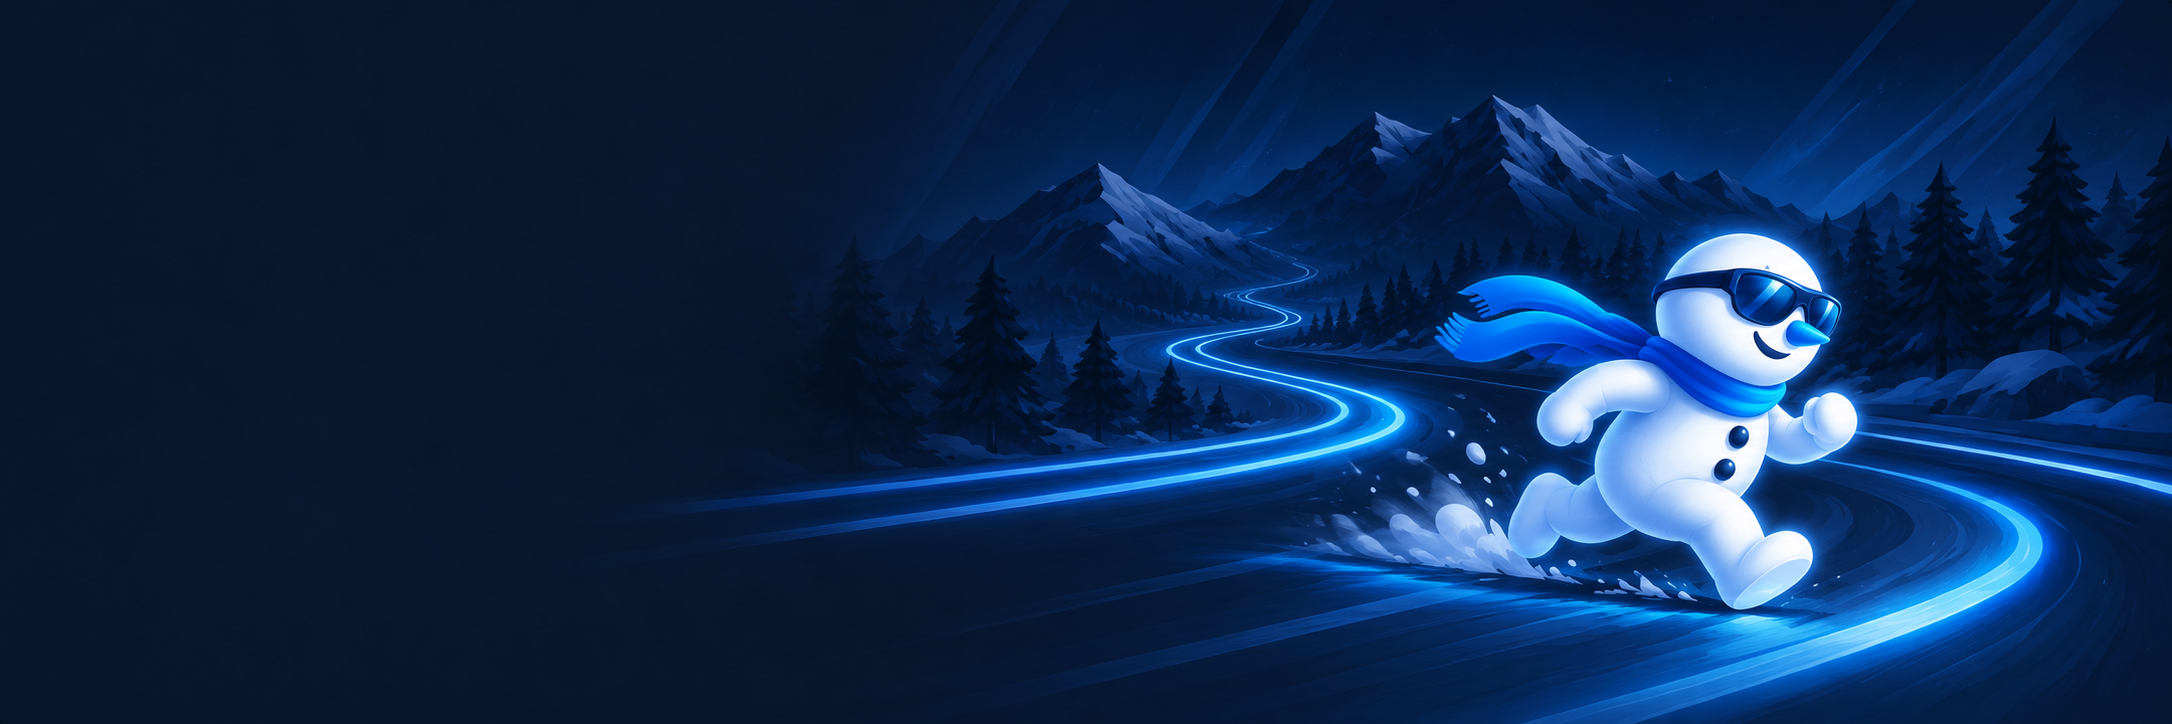
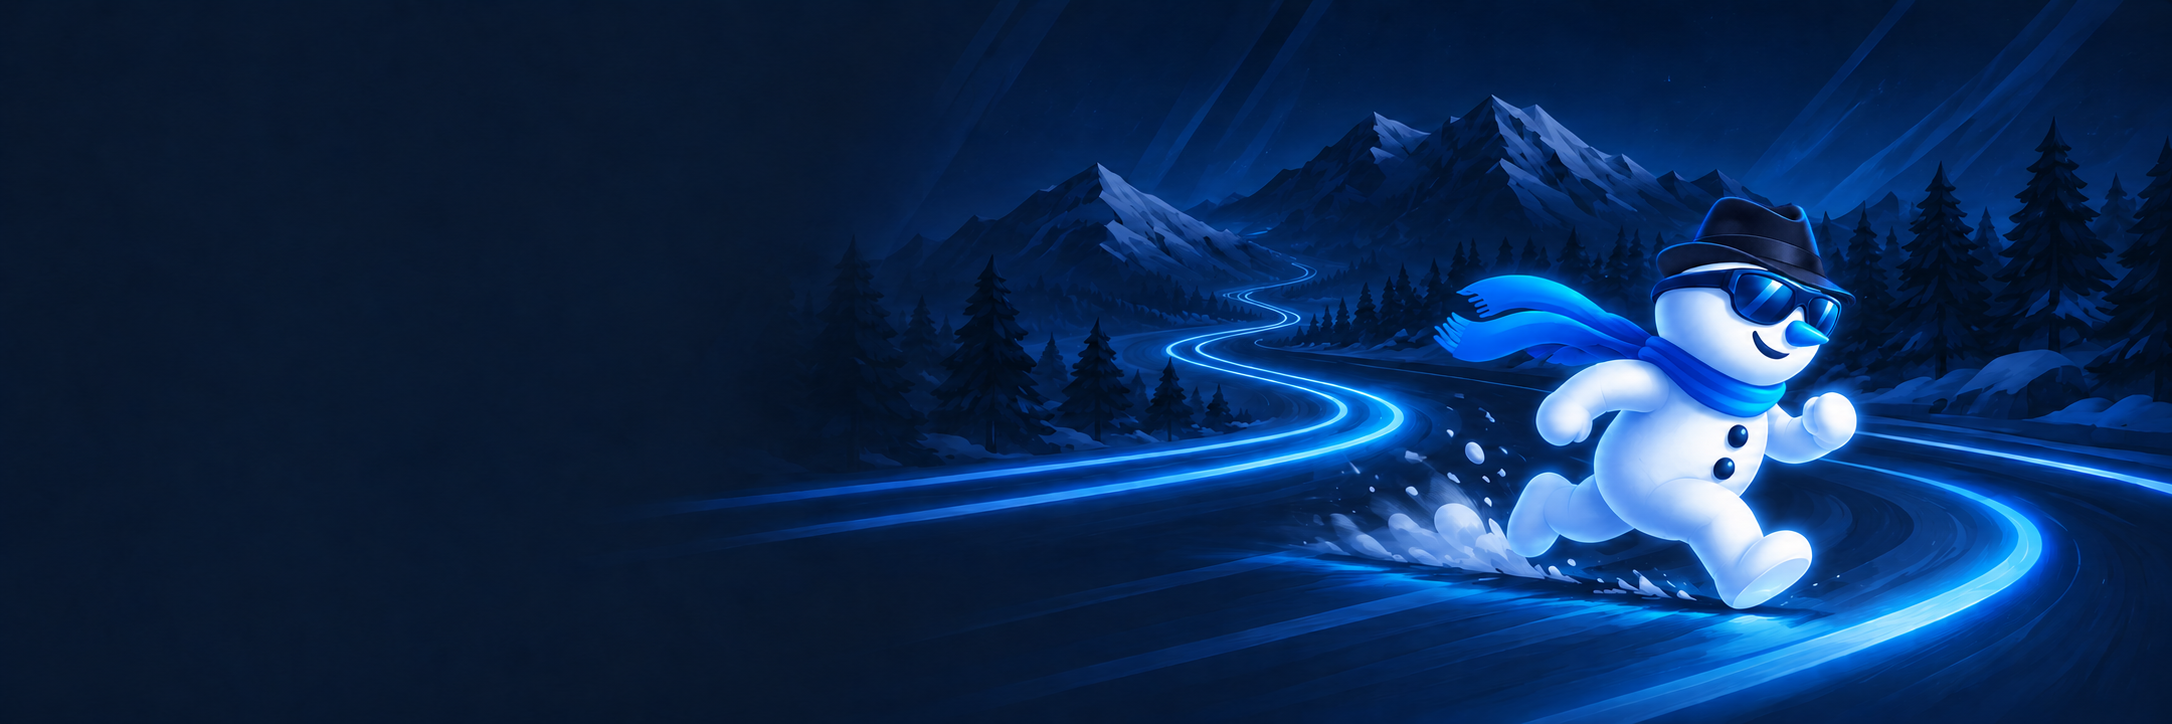
Fix window rendering compatibility and add matching hero hat

diff --git a/src/Bebekon.App/MainWindow.xaml b/src/Bebekon.App/MainWindow.xaml
@@ -1,6 +1,6 @@
 <Window x:Class="Bebekon.App.MainWindow" xmlns="http://schemas.microsoft.com/winfx/2006/xaml/presentation" xmlns:x="http://schemas.microsoft.com/winfx/2006/xaml" xmlns:local="clr-namespace:Bebekon.App" xmlns:shell="clr-namespace:System.Windows.Shell;assembly=PresentationFramework" Title="Bebekon VPN" Width="1160" Height="840" MinWidth="860" MinHeight="660" WindowStyle="None" ResizeMode="CanResize" Background="{DynamicResource Background}" Foreground="{DynamicResource Text}" FontFamily="Segoe UI" WindowStartupLocation="CenterScreen" UseLayoutRounding="True" SnapsToDevicePixels="True">
  <shell:WindowChrome.WindowChrome><shell:WindowChrome CaptionHeight="36" ResizeBorderThickness="6" CornerRadius="0" GlassFrameThickness="0"/></shell:WindowChrome.WindowChrome>
- <Grid>
+ <Grid x:Name="WindowSurface" Background="{DynamicResource Background}">
  <Grid x:Name="AppSurface"><Grid.Style><Style TargetType="Grid"><Style.Triggers><DataTrigger Binding="{Binding UpdateOverlayOpen}" Value="True"><Setter Property="IsEnabled" Value="False"/><Setter Property="Effect"><Setter.Value><BlurEffect Radius="5" RenderingBias="Performance"/></Setter.Value></Setter></DataTrigger></Style.Triggers></Style></Grid.Style>
   <Grid.ColumnDefinitions><ColumnDefinition Width="Auto"/><ColumnDefinition Width="*"/></Grid.ColumnDefinitions>
   <Border x:Name="SidebarHost" Width="200" ClipToBounds="True" Background="{DynamicResource Sidebar}" BorderBrush="{DynamicResource Border}" BorderThickness="0,0,1,0">

diff --git a/src/Bebekon.App/SmokeHarness.cs b/src/Bebekon.App/SmokeHarness.cs
@@ -51,6 +51,7 @@ internal static class SmokeHarness
         await Task.Delay(400); var report = new List<string> { "Startup selects TUN after a saved proxy session." };
         CheckTrayMenu(window, vm, report);
         await CheckCaptionButtonsAsync(window, vm, report);
+        await CheckWindowRestorationAsync(window, vm, report);
         await ConnectionChecks.RunAsync(Path.Combine(Root, "connection-regression"));
         await CheckStaleLatencyAsync(report);
         report.Add("Connection regressions: stable refreshed selection; coalesced rule edits; stable beyond 5 seconds; stale recovery ignored; manual off/cancel wins; edits during startup applied; traffic directions and units; XHTTP reaches helper.");
@@ -293,6 +294,45 @@ internal static class SmokeHarness
         window.Show();
         vm.Settings.MinimizeToTray = minimizeToTray;
         report.Add("Caption buttons: hit areas, minimize, maximize/restore icon and labels, language and close-to-tray behavior passed.");
+    }
+    private static async Task CheckWindowRestorationAsync(MainWindow window, MainViewModel vm, List<string> report)
+    {
+        var originalMotion = vm.AnimationsEnabled; var originalBlack = vm.PureBlack;
+        var surface = (Grid)window.FindName("WindowSurface");
+        var width = window.Width; var height = window.Height;
+        var paths = new[] { "Hide", "Minimize", "Close", "Maximized" };
+        var closeToTray = vm.Settings.MinimizeToTray; vm.Settings.MinimizeToTray = true;
+        try
+        {
+            foreach (var motion in new[] { false, true })
+            foreach (var black in new[] { false, true })
+            foreach (var path in paths)
+            {
+                vm.AnimationsEnabled = motion; vm.PureBlack = black;
+                if (path == "Minimize") window.WindowState = WindowState.Minimized;
+                else if (path == "Close") ((Button)window.FindName("CloseButton")).RaiseEvent(new RoutedEventArgs(Button.ClickEvent));
+                else { if (path == "Maximized") window.WindowState = WindowState.Maximized; window.Hide(); }
+                // Exercise the actual tray Open command, not Window.Show directly.
+                window.BuildMenu().Items[5].PerformClick();
+                await window.Dispatcher.InvokeAsync(() => { }, DispatcherPriority.ContextIdle); window.UpdateLayout();
+                if (!window.IsVisible || window.WindowState == WindowState.Minimized || window.AllowsTransparency || window.Opacity != 1 || surface.Opacity != 1)
+                    throw new InvalidOperationException("Tray restore must present an opaque visible window.");
+                if (path == "Maximized" && window.WindowState != WindowState.Maximized) throw new InvalidOperationException("Tray restore lost the maximized state.");
+                if (window.Background is not SolidColorBrush background || background.Color.A != 255 || surface.Background is not SolidColorBrush fill || fill.Color != background.Color)
+                    throw new InvalidOperationException("The window and root surface must have the same solid opaque theme background.");
+                var bitmap = new RenderTargetBitmap((int)surface.ActualWidth, (int)surface.ActualHeight, 96, 96, PixelFormats.Pbgra32); bitmap.Render(surface);
+                var stride = bitmap.PixelWidth * 4; var pixels = new byte[stride * bitmap.PixelHeight]; bitmap.CopyPixels(pixels, stride, 0);
+                for (var y = 12; y < bitmap.PixelHeight - 12; y += 24)
+                    for (var x = 12; x < bitmap.PixelWidth - 12; x += 24)
+                        if (pixels[y * stride + x * 4 + 3] != 255) throw new InvalidOperationException("Restored window has transparent client-area pixels.");
+                if (System.Windows.Media.RenderOptions.ProcessRenderMode != System.Windows.Interop.RenderMode.SoftwareOnly)
+                    throw new InvalidOperationException("Compatible rendering must be selected before any window is created.");
+                window.WindowState = WindowState.Normal;
+            }
+            Capture(window, "Window-Restored");
+            report.Add("Window restore: 16 actual tray Open cycles after Hide, Minimize, Close and Maximized; opaque pixel coverage, OLED/reduced motion and maximized state passed. Software rendering enabled for all WPF windows.");
+        }
+        finally { vm.Settings.MinimizeToTray = closeToTray; vm.AnimationsEnabled = originalMotion; vm.PureBlack = originalBlack; window.WindowState = WindowState.Normal; window.Width = width; window.Height = height; }
     }
     private static async Task CheckUpdateOverlayAsync(MainWindow window, MainViewModel vm, List<string> report)
     {

diff --git a/src/Bebekon.App/MainWindow.xaml.cs b/src/Bebekon.App/MainWindow.xaml.cs
@@ -70,7 +70,13 @@ public partial class MainWindow : Window
         menu.Items.Add(new Forms.ToolStripSeparator()); menu.Items.Add(I18n.T("Открыть", "Open")).Click += (_, _) => ShowWindow(); menu.Items.Add(I18n.T("Выход", "Exit")).Click += async (_, _) => await ExitAsync();
         return menu;
     }
-    private void ShowWindow() { Show(); WindowState = WindowState.Normal; Activate(); }
+    private void ShowWindow()
+    {
+        Show();
+        if (WindowState == WindowState.Minimized) WindowState = WindowState.Normal;
+        WindowSurface.InvalidateVisual();
+        Activate();
+    }
     private void Minimize(object sender, RoutedEventArgs e) => WindowState = WindowState.Minimized;
     private void Maximize(object sender, RoutedEventArgs e) => WindowState = WindowState == WindowState.Maximized ? WindowState.Normal : WindowState.Maximized;
     private void CloseWindow(object sender, RoutedEventArgs e) => Close();

diff --git a/src/Bebekon.App/App.xaml.cs b/src/Bebekon.App/App.xaml.cs
@@ -6,6 +6,9 @@ public partial class App : Application
     private Mutex? single;
     protected override async void OnStartup(StartupEventArgs e)
     {
+        // A failed GPU surface can leave only the DWM frame visible after restore.
+        // Use the WPF software pipeline for this small 2D dashboard and its dialogs.
+        System.Windows.Media.RenderOptions.ProcessRenderMode = System.Windows.Interop.RenderMode.SoftwareOnly;
         base.OnStartup(e);
         var smoke = e.Args.Contains("--smoke");
         single = new(true, @"Local\BebekonVPN." + System.Security.Principal.WindowsIdentity.GetCurrent().User!.Value + (smoke ? ".Smoke" : ""), out var first);

diff --git a/docs/VALIDATION.md b/docs/VALIDATION.md
@@ -104,6 +104,13 @@ Version 0.1.8 adds 15 update tests (150 total): signed local feed and package do
 - Published WPF smoke passes all pages/dialogs and existing connection regressions, including XHTTP reaching the helper and mixed-protocol server labels at minimum size. Live existing-provider regression: 14 Snow nodes validated and node 2 returned forced-VPN HTTPS HTTP 204 in 582 ms; nine Ultima nodes validated and node 1 gRPC/Reality returned HTTP 204 in 437 ms. Private URLs/credentials remain excluded.
 - Native TCP/UDP and XHTTP tests are isolated loopback fixtures, not measurements of arbitrary external providers or physical TUN. Installer/UAC and privileged TUN acceptance remain pending below.
 
+## Version 0.1.15 — 2026-10-04
+
+- The reported transparent/empty window was not independently reproduced. The installed binary was 0.1.12, and recent application logs contained no matching rendering exception. GPU/compositor trouble is a working hypothesis, not a confirmed driver diagnosis. The candidate selects WPF software rendering before creating windows and gives the root client area an opaque theme background.
+- Release UI smoke passed 16 restore cycles through the actual tray Open command after Hide, Minimize, Close-to-tray and Maximized, with animations on/off and normal/OLED backgrounds. Sampled client-area alpha coverage remained 255; maximizing survives tray restoration. These render fixtures cannot prove a particular external GPU failure is eliminated.
+- The Night Track hero now includes the same navy hat as the application mascot. Connected Home renders were visually inspected; the scene, left text area and minimum-size layout remain intact.
+- Installer/UAC/TUN acceptance remains pending below.
+
 ## Required manual acceptance — pending
 
 Version 0.1.9 changes the bundled update channel to GitHub Releases with a version-specific installer URL. The existing signed-update tests and published UI smoke suite are rerun for this release; the smoke checks the candidate local manifest before public release. Post-publication checks must verify the public latest feed, RSA signature, asset sizes and installer hash.

diff --git a/docs/DESIGN.md b/docs/DESIGN.md
@@ -12,3 +12,5 @@ The hero is embedded from `resources/design/night-track.png` and decoded to 1536
 
 The WPF smoke harness renders disconnected, connecting, connected and error states, English and minimum-window layouts, all pages and the shared dialogs. Its fixtures use isolated storage and do not install or connect a live VPN.
 Rules show newest entries first without changing execution priority. The priority view retains drag reordering; entries without a creation timestamp retain their relative legacy priority. The [client review](CLIENT-REVIEW.md) records the source-backed behavior decisions. Settings uses the shared regular gear geometry, and the 76px sidebar keeps its logo/glow and status badge within bounds.
+
+Version 0.1.15 adds the same dark navy trilby to the hero snowman, preserving the illustration's scene, composition and white/blue palette. WPF uses process-local software rendering from startup for the dashboard and dialogs to avoid dependence on a GPU surface when restoring the window. The root client-area surface has an explicit opaque theme background. The tray Open action preserves maximized state and requests repaint after showing the window.
